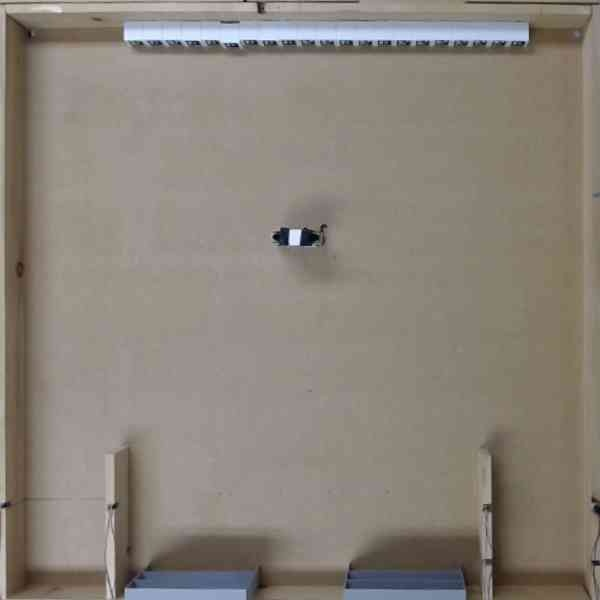
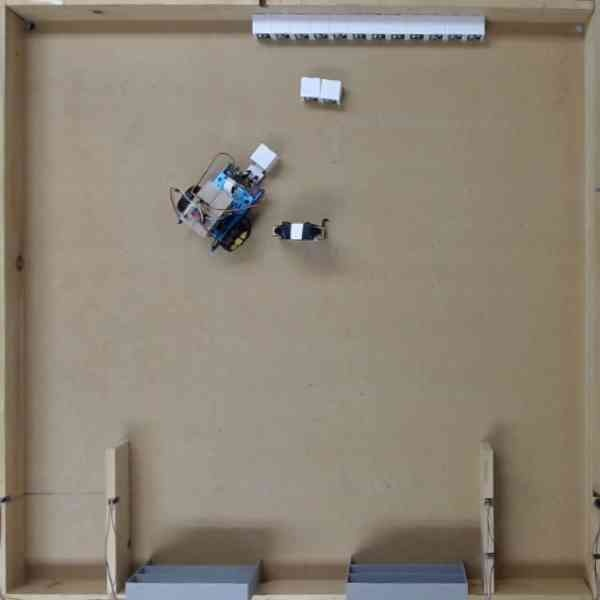
Idk

diff --git a/ELEX4699.py b/ELEX4699.py
@@ -7,27 +7,32 @@ import threading
 import cv2
 
 def video_stream_worker(video_sock):
-    """Background thread function that receives and renders images without lagging controls."""
+    """Background thread function that receives and renders images."""
     print("Video stream worker thread initialized.")
     try:
         while True:
-            frame = communication.receive_frame_tcp(video_sock)
+            frame = communication.receive_frame_tcp(video_sock, timeout=2.0)
             if frame is not None:
+                print("valid frame")
                 cv2.imshow("Raspberry Pi Video Feed", frame)
-                # cv2.waitKey(1) pumps GUI events; required for imshow windows to paint properly
                 if cv2.waitKey(1) & 0xFF == 27:  
                     break
             else:
-                time.sleep(0.01)  # Yield CPU if no new frame arrived
+                time.sleep(0.01)
+    except (OSError, ConnectionAbortedError):
+        # This catches WinError 10038 cleanly when the main thread shuts down the socket.
+        # We absorb it and exit the thread silently since it means we are closing down anyway.
+        pass
+    except Exception as e:
+        print(f"Unexpected error in video thread: {e}")
     finally:
         cv2.destroyAllWindows()
-        print("Video display window closed.")
 
 def main():
     print("Enter Pi IP:")
     PI_IP = input().strip()
     PI_PORT = 4002
-    VIDEO_PORT = 5002
+    VIDEO_PORT = 5002  # Keeping it on your specifications port
 
     # 1. Setup UDP command socket
     pi_sock = communication.create_udp_socket('0.0.0.0', PI_PORT)
@@ -35,13 +40,13 @@ def main():
         print("Socket communication failed to initialize.")
         return
 
-    # 2. Setup TCP Server Socket to accept video stream from the Pi
+    # 2. Setup TCP Server Socket for video on port 5002
     video_server = socket.socket(socket.AF_INET, socket.SOCK_STREAM)
+    video_server.setsockopt(socket.SOL_SOCKET, socket.SO_REUSEADDR, 1)
     video_server.bind(('0.0.0.0', VIDEO_PORT))
     video_server.listen(1)
     print(f"TCP Video Server listening on port {VIDEO_PORT}... Boot up the Pi script now.")
     
-    # Blocks here until your Pi runs and connects to the PC
     video_sock, addr = video_server.accept()
     print(f"Connected to Pi video stream from {addr}")
 
@@ -50,9 +55,16 @@ def main():
     video_thread.start()
 
     KEY_MAP = {
-        'esc': 'quit', 'up': 'forward', 'down': 'backward', 
-        'left': 'left', 'right': 'right', 'e': 'fork_up', 
-        'q': 'fork_down', 'm': 'manual', 'a': 'automatic', 's': 'start'
+        'esc': 'quit', 
+        'up': 'forward', 
+        'down': 'backward', 
+        'left': 'left', 
+        'right': 'right', 
+        'e': 'fork_up', 
+        'q': 'fork_down', 
+        'm': 'manual', 
+        'a': 'automatic', 
+        's': 'start'
     }
 
     print("Control mode active. ESC = quit")
@@ -73,10 +85,11 @@ def main():
 
             time.sleep(TICK_RATE)
     finally:
+        # Closes sockets immediately when 'esc' drops out of the while loop
         pi_sock.close()
         video_sock.close()
         video_server.close()
-        print("Sockets closed successfully.")
+        print("Sockets closed successfully. Goodbye!")
 
 if __name__ == "__main__":
     main()